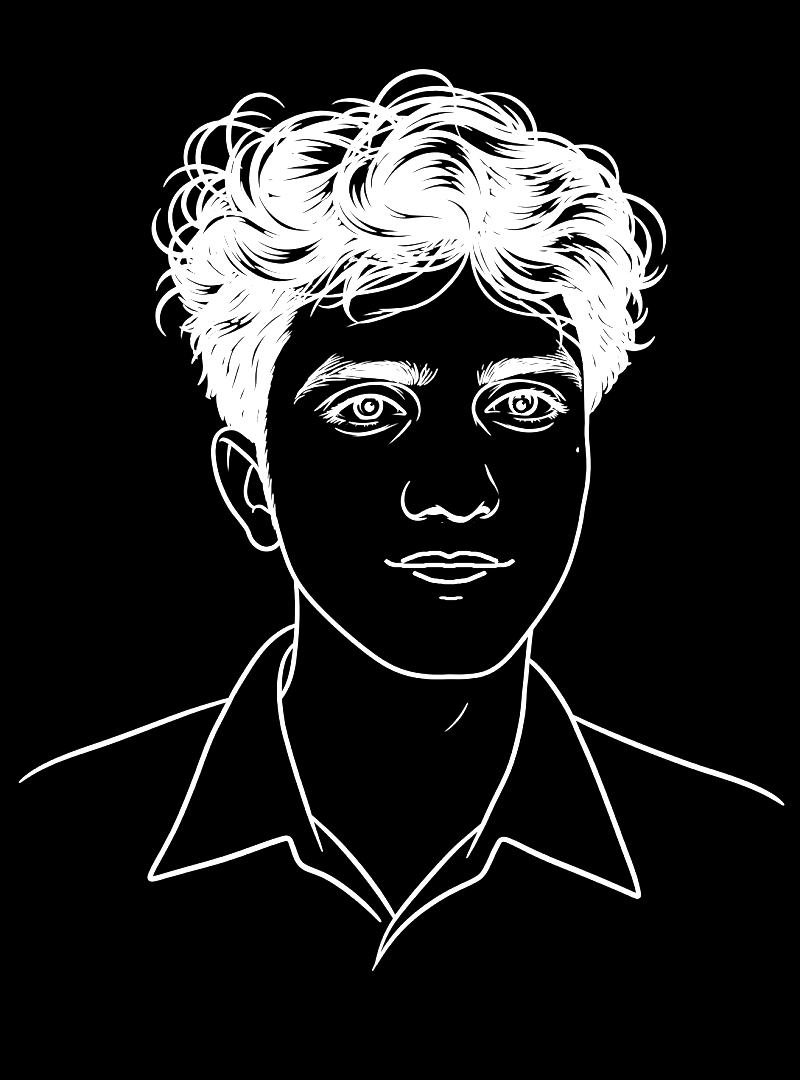
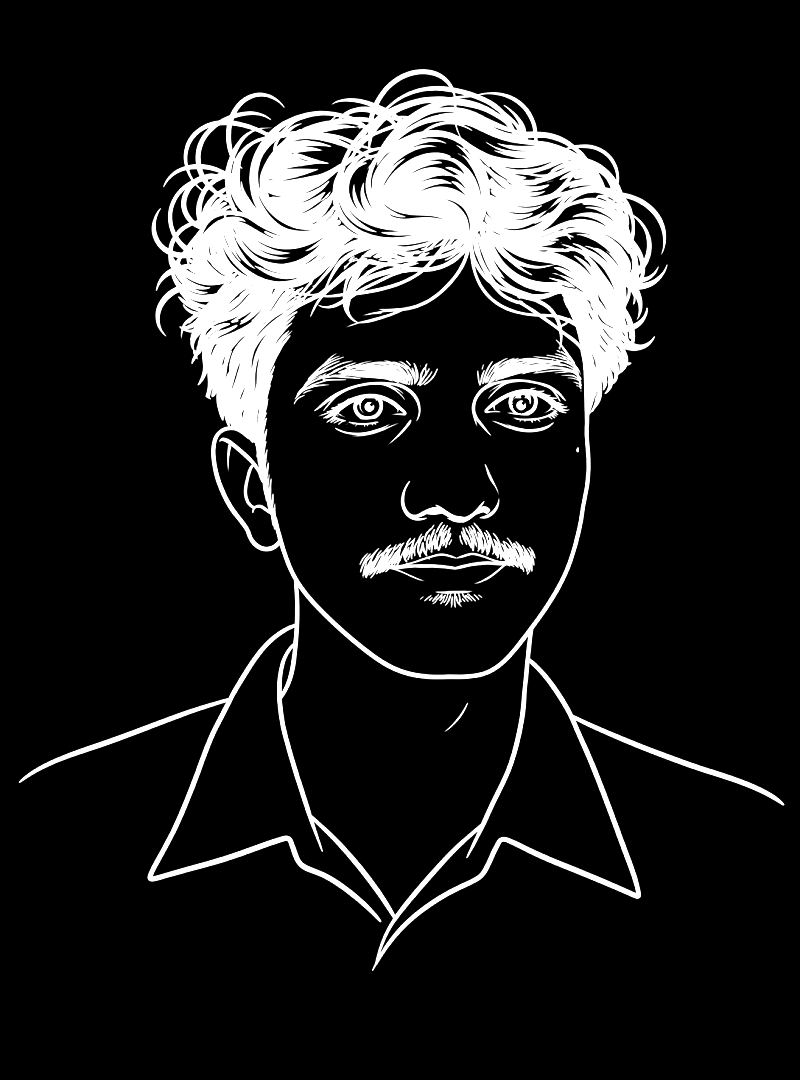
feat: keep the beard in dark mode too
Dark-mode portrait is the same drawing as light mode, with smaller pupils
so they don't glow. Shaving is now opt-in (SHAVE=1) in portrait-touchup.py.

Changed region(s): [[0.4375, 0.4889, 0.6875, 0.5806]]

diff --git a/src/components/home/figure.js b/src/components/home/figure.js
@@ -1,7 +1,6 @@
 // The pencil's path over Sai's line portrait (src/assets/portrait/lines-*.png):
-// the centre lines of the drawing (both the light-mode and dark-mode
-// versions), traced with scripts/trace-portrait.py in LINEART mode. As the
-// pencil follows them it reveals the drawing beneath.
+// the centre lines of the drawing, traced with scripts/trace-portrait.py in
+// LINEART mode. As the pencil follows them it reveals the drawing beneath.
 // Coordinates are in a FIGURE_W × FIGURE_H box; each array is one stroke.
 
 export const FIGURE_W = 400
@@ -138,13 +137,13 @@ export const figureStrokes = [
   [[248,190],[248,190],[248,190],[248,191],[248,192],[247,194],[247,195],[247,196],[246,197],[245,198],[245,198],[245,198],[244,198]],
   [[245,190],[245,190],[245,190],[244,190],[244,191],[243,192],[243,193],[242,194],[241,195],[240,195],[240,196],[239,197],[238,199],[237,200],[237,202],[237,203],[237,205],[237,207],[238,209],[239,210],[239,211],[240,212],[241,213],[242,213],[242,214],[242,215],[243,215],[243,215],[243,216]],
   [[296,192],[296,193],[295,198],[294,203],[293,212],[294,231],[293,241],[291,254],[288,270],[285,281],[278,294],[271,306],[266,314],[264,318],[262,319],[259,322],[254,328],[250,332],[245,335],[239,337],[230,338],[216,338],[204,336],[196,333],[188,329],[180,323],[171,316],[163,308],[156,301],[153,297],[150,294],[149,294],[148,298],[148,310],[146,313],[143,314],[139,317],[131,324],[120,341],[112,351],[106,352],[95,356],[73,364],[51,372],[34,377],[22,383],[13,388],[10,390]],
-  [[277,200],[277,200],[277,200],[276,200],[276,200],[275,200],[274,199],[273,199],[272,199],[272,198],[270,197],[269,197],[268,197],[266,197],[265,196],[264,196],[264,196],[264,196],[263,196],[263,196],[262,196],[261,196],[260,196],[259,196],[258,197],[258,198],[258,198],[257,198],[256,198],[255,198],[254,198],[252,198],[251,199],[249,200],[248,201],[247,202],[247,203],[247,204],[247,205],[247,205],[248,206],[248,206],[249,206],[249,206],[249,206]],
-  [[264,197],[264,197],[264,197],[264,198],[264,198],[264,199],[264,200],[263,200],[263,201],[263,201],[262,201],[261,201],[261,202],[260,202],[259,202],[259,202],[258,202],[258,203],[258,204],[258,204],[258,205],[257,206],[256,206],[256,206],[255,206],[255,206],[255,206],[255,206],[254,206]],
-  [[268,198],[268,198],[268,198],[268,200],[268,201],[267,202],[267,203],[266,204],[266,204],[265,204],[264,205],[264,205],[264,206],[264,206],[263,206],[263,206],[262,206],[261,206],[261,206],[260,206],[260,205],[259,204],[259,204],[259,204],[259,204]],
-  [[188,200],[188,200],[187,201],[187,201],[187,201],[187,202],[186,202],[185,203],[185,203],[184,203],[183,203],[182,203],[182,203],[182,203],[182,202],[182,202],[182,201],[182,200],[182,200],[182,199],[182,199],[182,198],[183,198],[183,198],[184,198],[185,198],[186,198],[186,198],[187,199],[187,199],[188,200],[188,200],[189,200],[190,199],[191,199],[192,199],[193,200],[194,200],[195,201],[196,201],[197,203],[199,204],[200,205],[200,206],[200,206]],
-  [[278,198],[278,198],[278,199],[278,199],[278,200],[278,202],[278,203],[279,203],[280,204],[281,204],[282,204],[283,204],[284,204]],
-  [[181,200],[181,200],[181,200],[180,200],[179,200],[178,200],[177,200],[176,200],[175,201],[174,201],[173,201],[172,202],[170,203],[170,203],[169,204],[169,205],[169,205],[169,206],[170,206],[170,207],[170,207]],
-  [[189,200],[189,201],[189,201],[189,201],[190,201],[190,202],[190,202],[190,203],[190,204],[190,204],[190,205],[189,206],[188,207],[188,207],[187,208],[186,208],[186,208],[185,208],[184,208],[184,207],[183,207],[183,207],[183,206],[182,206],[182,205],[182,204],[182,204],[182,204],[182,204]],
+  [[264,196],[264,196],[264,196],[263,196],[262,196],[261,196],[260,196],[259,197],[259,197],[259,198],[260,198],[260,199],[260,200],[260,201],[260,202],[260,203],[260,203]],
+  [[278,198],[278,198],[278,199],[278,199],[278,199],[278,199],[278,200],[278,200],[277,200],[277,200],[276,200],[275,199],[274,199],[272,198],[271,198],[269,197],[268,197],[267,197],[266,197],[265,198],[265,198],[265,200],[265,201],[265,201],[265,202]],
+  [[258,197],[258,197],[258,197],[257,197],[256,197],[254,198],[253,198],[251,199],[250,199],[249,200],[248,201],[247,202],[247,203],[247,204],[247,205],[247,205],[248,206],[248,206],[249,206],[249,206],[249,206]],
+  [[190,198],[190,198],[189,198],[189,198],[189,198],[188,198],[188,198],[187,198],[186,198],[184,198],[183,198],[182,198],[181,198],[180,199],[179,200],[179,200],[179,201],[179,202],[180,202],[180,203],[180,203],[180,204],[180,205],[180,205],[179,205],[179,206],[179,206],[179,206],[179,207],[180,208],[180,208],[182,208],[183,208],[184,208],[186,208],[187,208],[188,208],[188,207],[189,206],[189,205],[190,203],[190,202],[190,200],[191,200],[191,199],[192,199],[193,200],[194,200],[195,200],[196,201],[197,201],[197,202],[198,203],[199,204],[200,205],[200,206],[200,206]],
+  [[268,198],[268,198],[268,198],[268,198],[268,200],[268,201],[267,202],[267,203],[267,204],[266,205],[265,206],[264,206],[262,206],[260,206],[259,206],[258,206],[257,206],[257,206],[257,206],[256,206],[256,206],[255,206],[255,206],[255,206],[254,206]],
+  [[178,200],[178,200],[177,200],[177,200],[176,200],[175,200],[174,201],[173,201],[172,202],[170,203],[169,204],[169,205],[169,205],[169,206],[170,206],[170,207],[170,207]],
+  [[278,200],[278,200],[278,201],[278,201],[278,202],[278,202],[278,203],[279,204],[280,204],[281,204],[282,204],[283,204],[284,204]],
   [[277,204],[277,204],[277,204],[277,204],[276,205],[276,206],[275,207],[274,208],[273,208],[271,209],[269,209],[267,209],[265,209],[262,209],[260,209],[259,209],[258,209]],
   [[122,206],[122,206],[121,207],[119,208],[117,210],[116,212],[114,213],[113,214],[112,214],[111,215],[110,216],[109,217],[108,218],[108,220],[107,221],[107,223],[106,225],[106,227],[106,229],[107,231],[107,234],[108,237],[109,240],[111,244],[112,248],[114,251],[116,254],[118,257],[120,260],[122,262],[123,264],[124,266],[125,268],[125,269],[126,270],[127,271],[127,272],[128,272],[130,273],[131,273],[133,274],[134,274],[136,274],[137,273],[138,273],[139,271],[139,269],[138,265],[137,261],[136,258],[136,256],[136,254],[136,254]],
   [[166,208],[166,208],[166,208],[166,208],[166,208],[167,209],[167,210],[168,210],[169,210],[170,210],[172,210],[172,210],[172,210]],
@@ -159,15 +158,16 @@ export const figureStrokes = [
   [[249,250],[249,250],[249,251],[249,252],[248,252],[248,253],[248,254],[247,255],[247,255],[246,256],[246,256],[245,256],[244,256],[244,256],[244,256],[243,256],[243,256],[243,255],[243,255],[242,255],[242,255],[241,255],[241,254],[241,254],[241,254]],
   [[220,262],[221,262],[221,263],[221,263],[221,264],[221,265],[221,265],[221,266],[221,267],[221,268],[220,268],[220,268],[219,268],[218,268],[218,268],[217,268],[217,267],[216,266],[216,266],[216,265],[216,264],[216,264],[216,263],[216,263],[216,263]],
   [[234,268],[235,268],[236,268],[238,269],[240,270],[242,271],[244,271],[245,272],[246,272],[246,271],[247,271],[247,271],[248,271],[248,270],[248,270],[248,269],[248,269],[248,268],[248,268],[248,268],[248,268]],
-  [[254,269],[254,270],[254,270],[254,272],[254,274],[253,275],[253,276],[252,276],[252,275],[251,275],[250,274],[250,274],[249,274],[249,274],[248,274],[248,273],[248,273],[248,272],[248,272],[248,272],[248,272]],
-  [[218,269],[218,269],[217,269],[217,270],[216,271],[215,272],[214,273],[212,274],[210,274],[208,275],[206,275],[205,276],[204,276],[204,277],[204,278],[203,278],[202,278],[200,278],[199,278],[198,279],[198,279],[197,279],[196,280],[195,280],[194,280],[193,280],[191,280],[190,280],[190,279],[189,278],[189,278],[189,277],[189,276],[189,276],[189,275],[189,275],[189,274]],
-  [[237,270],[237,270],[237,270],[237,270],[236,271],[236,271],[236,272],[236,273],[236,274],[236,276],[237,276],[238,276],[239,276],[240,276],[240,276],[241,276],[241,276],[241,276],[241,276],[241,276],[241,276]],
-  [[242,272],[242,272],[242,272],[242,272],[242,273],[242,274],[242,275],[242,276],[242,278],[243,279],[244,280],[245,281],[246,281],[247,281],[248,281],[249,282],[249,283],[249,284],[248,285],[248,286],[248,286],[247,287],[246,287],[245,288],[243,289],[241,290],[240,290],[239,291],[238,291]],
+  [[254,269],[254,270],[254,271],[254,272],[254,274],[254,276],[255,277],[256,278],[258,278],[259,278],[261,279],[262,279],[262,280],[263,281],[263,282],[264,283],[264,285],[264,286],[264,286],[264,286],[264,286]],
+  [[218,269],[218,269],[217,269],[217,269],[217,270],[216,270],[215,271],[214,271],[212,272],[209,272],[207,273],[206,273],[204,274],[204,275],[203,275],[202,275],[200,276],[199,276],[198,276],[197,277],[196,278],[196,278],[195,279],[194,280],[193,280],[192,280],[191,280],[190,280],[190,279],[189,278],[189,278],[189,277],[189,276],[189,276],[189,275],[189,275],[189,274]],
+  [[237,270],[237,270],[237,270],[237,270],[236,271],[236,271],[236,272],[236,273],[236,274],[236,276],[237,276],[238,277],[239,277],[240,277],[240,276],[241,275],[241,274],[241,272],[241,272],[242,272],[242,272]],
   [[140,272],[148,293]],
-  [[215,273],[215,273],[216,274],[216,274],[217,275],[218,276],[219,276],[220,277],[221,277],[222,277],[224,277],[227,277],[230,277],[233,277],[235,277],[236,276],[236,276]],
-  [[254,278],[254,278],[254,278],[255,278],[256,278],[258,278],[260,278],[261,279],[262,279],[262,280],[263,281],[263,282],[264,283],[264,285],[264,286],[264,286],[264,286]],
-  [[204,278],[204,279],[205,279],[206,280],[206,281],[208,282],[212,282],[216,283],[220,283],[225,283],[230,283],[234,282],[238,282],[241,282],[243,282],[244,282],[244,282]],
-  [[198,280],[198,280],[198,280],[198,280],[198,280],[198,281],[199,282],[199,283],[199,284],[200,284],[202,286],[204,286],[207,288],[210,288],[214,289],[218,290],[222,290],[227,290],[230,290],[234,289],[236,289],[239,288],[240,287],[241,287],[242,286]],
+  [[210,273],[210,273],[210,274],[211,274],[211,275],[212,275],[212,276],[212,277],[212,277],[213,278],[214,278],[215,278],[216,278],[218,277],[220,277],[222,278],[225,278],[228,278],[230,278],[232,278],[233,277],[234,277],[235,277],[236,276],[236,276]],
+  [[242,273],[242,273],[242,273],[243,274],[243,274],[243,274],[243,275],[243,276],[243,277],[243,278],[243,279],[243,279],[244,280],[244,280],[245,280],[246,281],[247,281],[248,281],[249,281],[250,281],[250,280],[250,280],[250,280],[250,280],[250,280]],
+  [[210,274],[210,274],[210,275],[210,276],[210,277],[210,278],[210,279],[211,279],[211,279],[212,279],[212,279],[212,279],[212,279]],
+  [[203,276],[203,276],[203,276],[203,277],[203,278],[203,280],[202,281],[202,282],[202,283],[201,283],[200,283],[200,283],[200,284],[200,285],[201,285],[202,286],[204,287],[207,288],[209,289],[210,290],[210,290]],
+  [[253,278],[253,278],[253,278],[253,278],[252,278],[252,279],[251,279],[251,280],[251,281],[251,282],[250,282],[250,283],[250,284],[249,285],[248,285],[247,286],[246,287],[244,289],[242,290],[241,290],[240,291],[239,291],[239,291],[239,291],[238,291]],
+  [[208,280],[208,281],[208,281],[208,281],[208,282],[209,282],[212,283],[216,283],[221,283],[226,283],[231,283],[235,283],[239,282],[241,282],[243,281],[244,281],[244,281]],
   [[240,298],[239,298],[238,298],[236,298],[233,298],[231,298],[229,298],[228,297],[228,297],[228,296],[227,296],[226,296],[225,296],[225,296],[224,296],[223,297],[223,298],[223,298],[224,299],[225,299],[226,299],[227,300],[228,300],[228,299],[229,299],[229,299],[229,299],[229,298],[229,298]],
   [[148,314],[148,314],[148,315],[148,317],[147,320],[147,322],[146,323],[146,325],[144,325],[144,327],[143,328],[142,331],[141,333],[140,336],[140,338],[140,340],[140,342],[140,343],[140,344],[140,344],[141,344],[142,344],[142,344],[143,344],[143,344],[143,343],[144,341],[144,340],[145,337],[146,335],[146,333],[146,331],[147,328],[147,327],[147,326],[147,325],[147,325]],
   [[264,319],[264,330]],

diff --git a/src/components/home/ScrollLine.jsx b/src/components/home/ScrollLine.jsx
@@ -1,7 +1,7 @@
 import React, { useEffect, useRef } from 'react'
 import { figureStrokes, FIGURE_W } from './figure'
-// The portrait differs by theme: with a light beard in light mode,
-// clean-shaven in dark mode.
+// Same portrait in both themes; the dark-mode copy has smaller pupils so they
+// don't glow when the drawing is shown light-on-dark.
 import portraitLight from '../../assets/portrait/lines-light.png'
 import portraitDark from '../../assets/portrait/lines-dark.png'
 

diff --git a/scripts/portrait-touchup.py b/scripts/portrait-touchup.py
@@ -1,12 +1,13 @@
 """Touch up the line portrait so it reads well inverted in dark mode.
 
-- Clean-shaven: remove the moustache and the stubble under the lip, and
-  redraw the mouth corners and a soft chin crease.
+- Optional (SHAVE=1): clean-shaven: remove the moustache and the stubble
+  under the lip, and redraw the lips and a soft chin crease.
 - Dark mode shows the drawing cream-on-navy, so large solid-black areas turn
   into bright blobs. Shrink the pupils to a small dot with a catchlight.
 
-usage: python3 scripts/portrait-touchup.py drawing.png out.png
+usage: [SHAVE=1] python3 scripts/portrait-touchup.py drawing.png out.png
 """
+import os
 import sys
 
 import cv2
@@ -42,16 +43,18 @@ def curve(img, pts, width=3):
     cv2.polylines(img, [p.astype(np.int32)], False, 0, width, cv2.LINE_AA)
 
 
-# Moustache and mouth: clear everything between the nose and the chin, then
-# redraw the lips cleanly with a gentle smile (the originals sat inside the
-# moustache and came out broken once it was removed).
-wipe(im, [(482, 701), (735, 701), (740, 792), (478, 792)])
-curve(im, [(524, 752), (532, 757), (560, 759), (594, 757), (610, 759), (626, 757), (660, 759), (688, 757), (696, 752)], 4)
-curve(im, [(546, 752), (570, 743), (596, 741), (610, 747), (624, 741), (650, 743), (674, 752)], 3)
-curve(im, [(562, 768), (586, 778), (610, 781), (634, 778), (658, 768)], 3)
+if os.environ.get('SHAVE'):
+    # Moustache and mouth: clear everything between the nose and the chin, then
+    # redraw the lips cleanly with a gentle smile (the originals sat inside the
+    # moustache and came out broken once it was removed).
+    wipe(im, [(482, 701), (735, 701), (740, 792), (478, 792)])
+    curve(im, [(524, 752), (532, 757), (560, 759), (594, 757), (610, 759), (626, 757), (660, 759), (688, 757), (696, 752)], 4)
+    curve(im, [(546, 752), (570, 743), (596, 741), (610, 747), (624, 741), (650, 743), (674, 752)], 3)
+    curve(im, [(562, 768), (586, 778), (610, 781), (634, 778), (658, 768)], 3)
 
-# Stubble under the lower lip: replace with a soft chin crease.
-wipe(im, [(560, 786), (665, 786), (665, 820), (560, 820)])
-curve(im, [(598, 801), (612, 803), (626, 801)], 2)
+    # Stubble under the lower lip: replace with a soft chin crease.
+    wipe(im, [(560, 786), (665, 786), (665, 820), (560, 820)])
+    curve(im, [(598, 801), (612, 803), (626, 801)], 2)
+
 
 cv2.imwrite(out, im)

diff --git a/scripts/trace-portrait.py b/scripts/trace-portrait.py
@@ -19,8 +19,8 @@ For clean black-on-white line art (what the site uses now), set LINEART=1:
 it follows the centre of each drawn line instead of finding photo edges.
 The current pencil path: LINEART=1 MINLEN=8 MINSPAN=6 EPS=1.4, whole image.
 The drawing itself ships as src/assets/portrait/lines-light.png and
-lines-dark.png (white ink on black, 800 x 1080), one per theme; the pencil's
-path is traced from the union of both so it covers either.
+lines-dark.png (white ink on black, 800 x 1080), one per theme (the dark
+copy has smaller pupils); the pencil's path is traced from the drawing.
 """
 import json
 import sys
